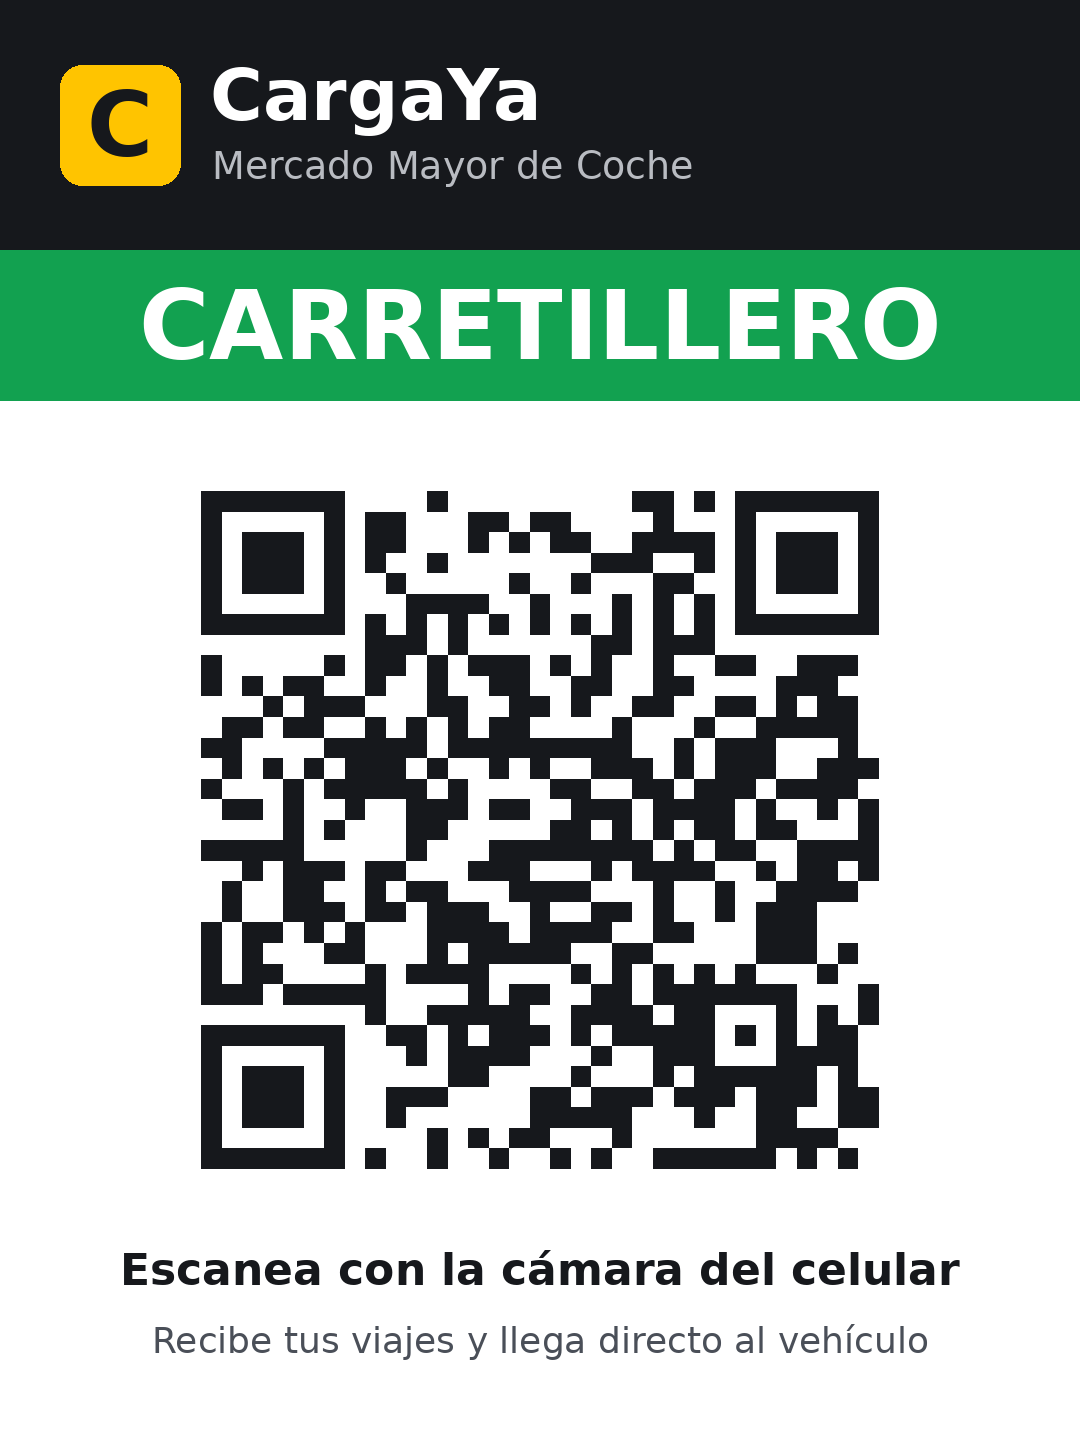
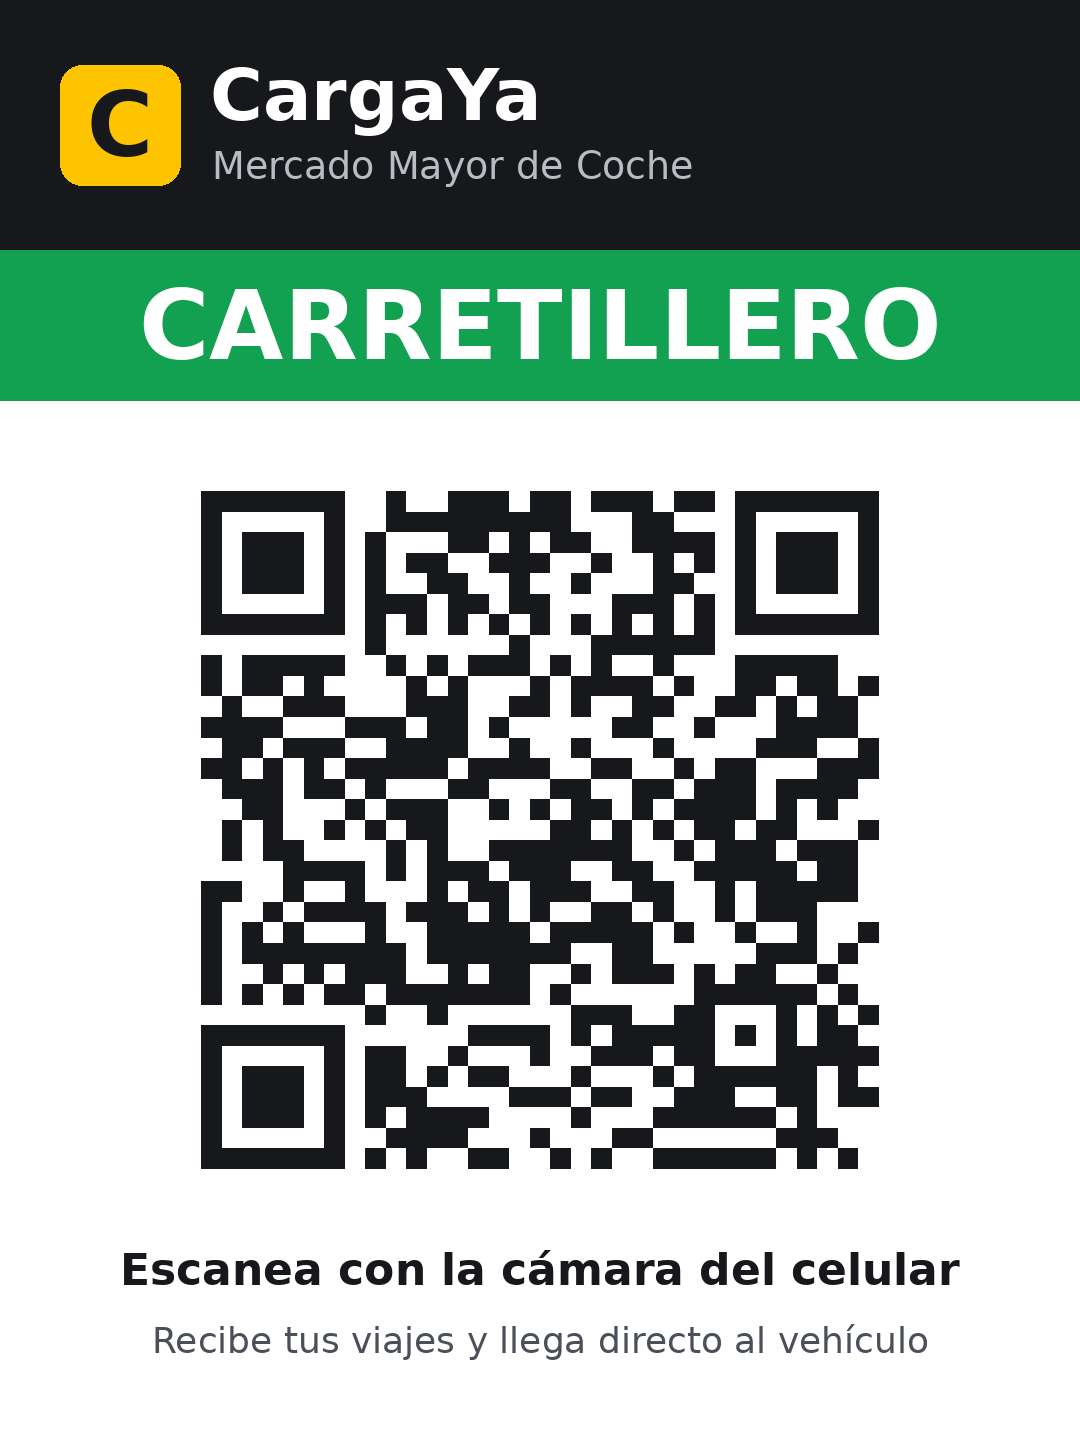
QR con el nombre exacto del repositorio
Claude-Session: https://claude.ai/code/session_01Sr8uK4d48WrbyhfeYUaAQ1

Changed region(s): [[0.1833, 0.3438, 0.825, 0.8125], [0.7639, 0.4375, 0.7944, 0.4688]]

diff --git a/README.md b/README.md
@@ -27,7 +27,7 @@ Abrí `config.js` y pegá esos dos datos en `SUPABASE_URL` y `SUPABASE_KEY`. Cam
 > La clave "anon" es pública: se puede ver dentro de la página y está bien que así sea. **Nunca** pegues la clave `service_role`.
 
 ### 3. Publicar en GitHub Pages
-1. Creá un repositorio público llamado `cargaya` y subí todos los archivos.
+1. Creá un repositorio público llamado `CargaYa` y subí todos los archivos.
 2. En el repositorio, entrá a **Settings → Pages**. En **Source** elegí `Deploy from a branch`, después la rama `main` y la carpeta `/ (root)`, y guardá.
 3. Al minuto, la app queda en `https://<tu-usuario>.github.io/cargaya/`.
 
